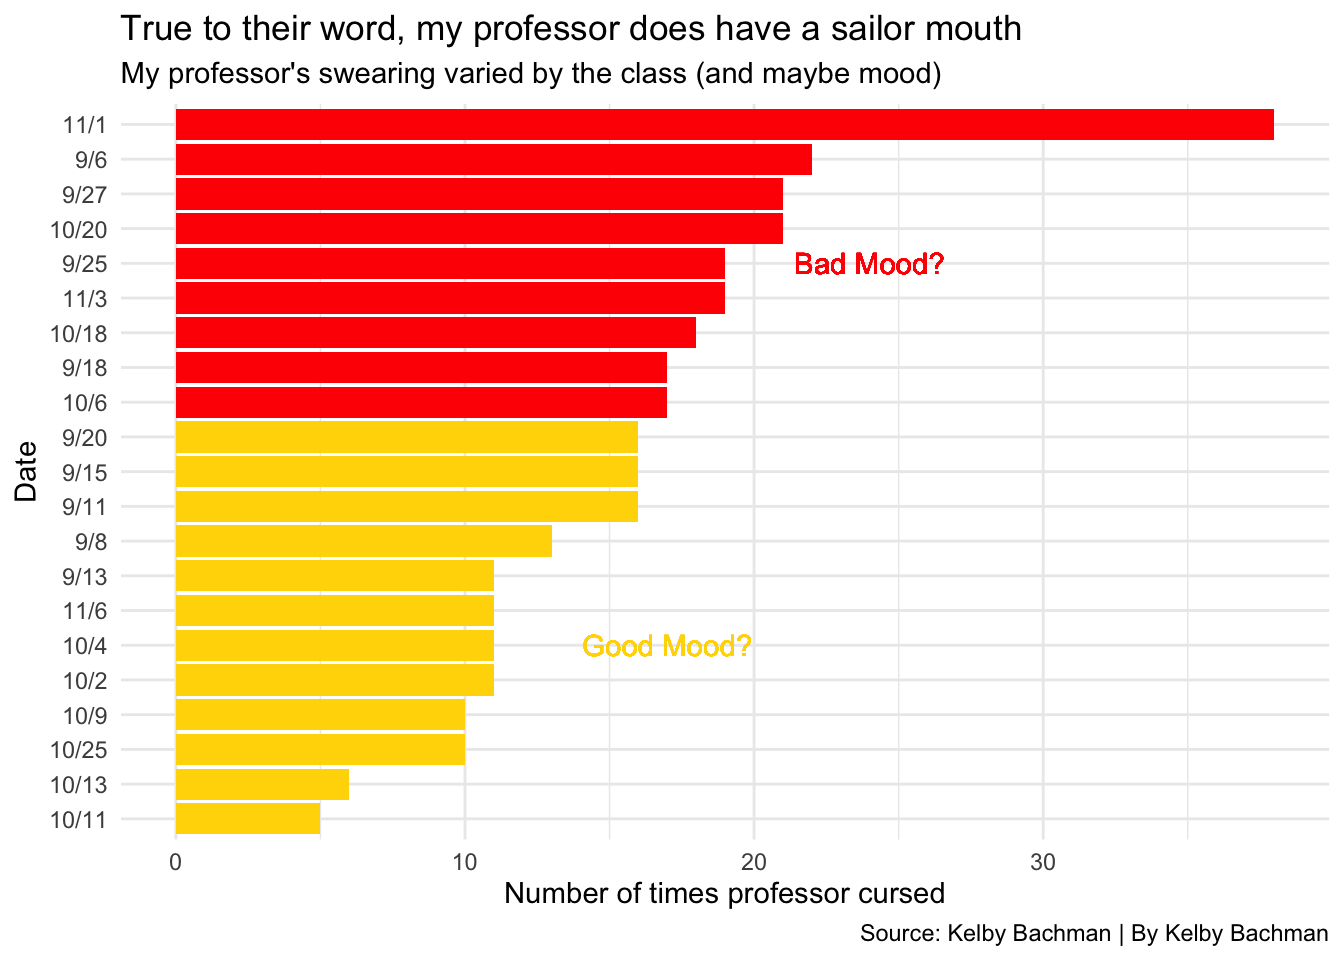
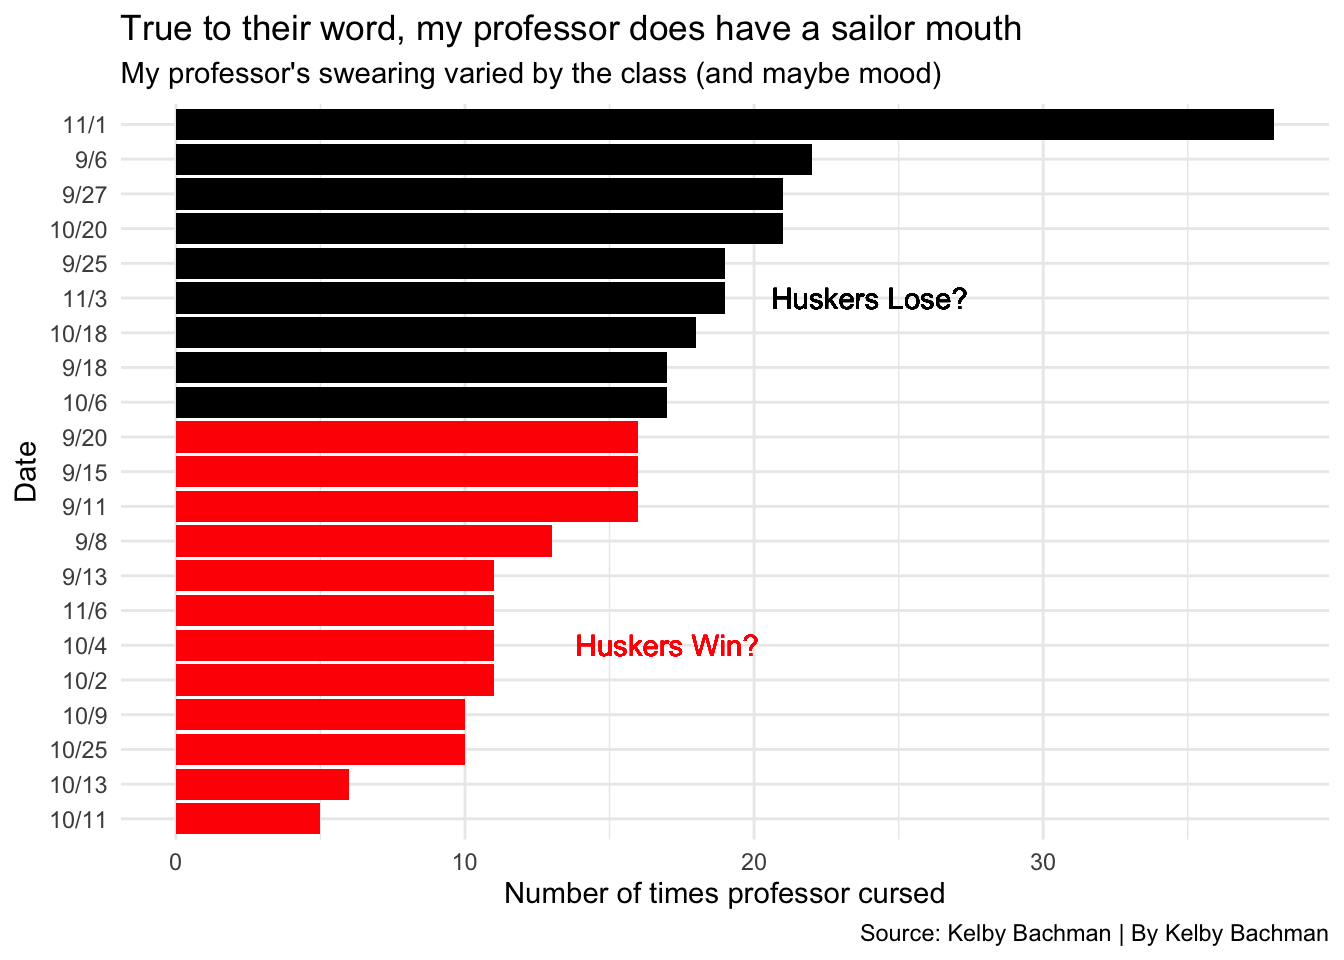
Finished

Changed region(s): [[0.125, 0.0938, 0.9688, 0.875], [0.4062, 0.6562, 0.5625, 0.6875]]

diff --git a/posts/cursewords/index.html b/posts/cursewords/index.html
@@ -195,8 +195,8 @@ pre > code.sourceCode > span > a:first-child::before { text-decoration: underlin
 <span id="cb1-9"><a href="#cb1-9" aria-hidden="true" tabindex="-1"></a></span>
 <span id="cb1-10"><a href="#cb1-10" aria-hidden="true" tabindex="-1"></a>cursewords <span class="sc">|&gt;</span></span>
 <span id="cb1-11"><a href="#cb1-11" aria-hidden="true" tabindex="-1"></a>  <span class="fu">ggplot</span>() <span class="sc">+</span> <span class="fu">geom_bar</span>(<span class="at">data=</span>cursewords, <span class="fu">aes</span>(<span class="at">x=</span><span class="fu">reorder</span>(Date, Total), <span class="at">weight=</span>Total)) <span class="sc">+</span></span>
-<span id="cb1-12"><a href="#cb1-12" aria-hidden="true" tabindex="-1"></a>  <span class="fu">geom_bar</span>(<span class="at">data=</span>goodmood, <span class="fu">aes</span>(<span class="at">x=</span><span class="fu">reorder</span>(Date, Total), <span class="at">weight=</span>Total), <span class="at">fill=</span><span class="st">"gold"</span>) <span class="sc">+</span></span>
-<span id="cb1-13"><a href="#cb1-13" aria-hidden="true" tabindex="-1"></a>  <span class="fu">geom_bar</span>(<span class="at">data=</span>badmood, <span class="fu">aes</span>(<span class="at">x=</span><span class="fu">reorder</span>(Date, Total), <span class="at">weight=</span>Total), <span class="at">fill=</span><span class="st">"red"</span>) <span class="sc">+</span></span>
+<span id="cb1-12"><a href="#cb1-12" aria-hidden="true" tabindex="-1"></a>  <span class="fu">geom_bar</span>(<span class="at">data=</span>goodmood, <span class="fu">aes</span>(<span class="at">x=</span><span class="fu">reorder</span>(Date, Total), <span class="at">weight=</span>Total), <span class="at">fill=</span><span class="st">"red"</span>) <span class="sc">+</span></span>
+<span id="cb1-13"><a href="#cb1-13" aria-hidden="true" tabindex="-1"></a>  <span class="fu">geom_bar</span>(<span class="at">data=</span>badmood, <span class="fu">aes</span>(<span class="at">x=</span><span class="fu">reorder</span>(Date, Total), <span class="at">weight=</span>Total), <span class="at">fill=</span><span class="st">"black"</span>) <span class="sc">+</span></span>
 <span id="cb1-14"><a href="#cb1-14" aria-hidden="true" tabindex="-1"></a>  <span class="fu">coord_flip</span>() <span class="sc">+</span></span>
 <span id="cb1-15"><a href="#cb1-15" aria-hidden="true" tabindex="-1"></a>  <span class="fu">theme_minimal</span>() <span class="sc">+</span></span>
 <span id="cb1-16"><a href="#cb1-16" aria-hidden="true" tabindex="-1"></a>  <span class="fu">labs</span>(</span>
@@ -206,13 +206,87 @@ pre > code.sourceCode > span > a:first-child::before { text-decoration: underlin
 <span id="cb1-20"><a href="#cb1-20" aria-hidden="true" tabindex="-1"></a>    <span class="at">subtitle=</span><span class="st">"My professor's swearing varied by the class (and maybe mood)"</span>,</span>
 <span id="cb1-21"><a href="#cb1-21" aria-hidden="true" tabindex="-1"></a>    <span class="at">caption=</span><span class="st">"Source: Kelby Bachman | By Kelby Bachman"</span></span>
 <span id="cb1-22"><a href="#cb1-22" aria-hidden="true" tabindex="-1"></a>  ) <span class="sc">+</span></span>
-<span id="cb1-23"><a href="#cb1-23" aria-hidden="true" tabindex="-1"></a>  <span class="fu">geom_text</span>(<span class="fu">aes</span>(<span class="at">x=</span><span class="dv">17</span>, <span class="at">y=</span><span class="dv">24</span>, <span class="at">label=</span><span class="st">"Bad Mood?"</span>), <span class="at">color=</span><span class="st">"red"</span>) <span class="sc">+</span></span>
-<span id="cb1-24"><a href="#cb1-24" aria-hidden="true" tabindex="-1"></a>  <span class="fu">geom_text</span>(<span class="fu">aes</span>(<span class="at">x=</span><span class="dv">6</span>, <span class="at">y=</span><span class="dv">17</span>, <span class="at">label=</span><span class="st">"Good Mood?"</span>), <span class="at">color=</span><span class="st">"gold"</span>)</span></code><button title="Copy to Clipboard" class="code-copy-button"><i class="bi"></i></button></pre></div>
+<span id="cb1-23"><a href="#cb1-23" aria-hidden="true" tabindex="-1"></a>  <span class="fu">geom_text</span>(<span class="fu">aes</span>(<span class="at">x=</span><span class="dv">16</span>, <span class="at">y=</span><span class="dv">24</span>, <span class="at">label=</span><span class="st">"Huskers Lose?"</span>), <span class="at">color=</span><span class="st">"black"</span>) <span class="sc">+</span></span>
+<span id="cb1-24"><a href="#cb1-24" aria-hidden="true" tabindex="-1"></a>  <span class="fu">geom_text</span>(<span class="fu">aes</span>(<span class="at">x=</span><span class="dv">6</span>, <span class="at">y=</span><span class="dv">17</span>, <span class="at">label=</span><span class="st">"Huskers Win?"</span>), <span class="at">color=</span><span class="st">"red"</span>)</span></code><button title="Copy to Clipboard" class="code-copy-button"><i class="bi"></i></button></pre></div>
 </details>
 <div class="cell-output-display">
 <p><img src="index_files/figure-html/unnamed-chunk-1-1.png" class="img-fluid" width="672"></p>
 </div>
 </div>
+<p>My professor wasn’t wrong. They, in fact, do swear quite a bit. I wasn’t sure if it because the Huskers won or lost. Either way, safe to say my professor has a sailor mouth. I took it a step further. Yeah, my professor swears a lot. But I wondered if he preferred one word over another. And, as a matter of fact, it seems like they do.</p>
+<div class="cell">
+<details>
+<summary>Code</summary>
+<div class="sourceCode cell-code" id="cb2"><pre class="sourceCode r code-with-copy"><code class="sourceCode r"><span id="cb2-1"><a href="#cb2-1" aria-hidden="true" tabindex="-1"></a>cursewords <span class="sc">|&gt;</span></span>
+<span id="cb2-2"><a href="#cb2-2" aria-hidden="true" tabindex="-1"></a>  <span class="fu">ggplot</span>() <span class="sc">+</span> </span>
+<span id="cb2-3"><a href="#cb2-3" aria-hidden="true" tabindex="-1"></a>  <span class="fu">geom_point</span>(<span class="at">data=</span>cursewords, <span class="fu">aes</span>(<span class="at">x=</span>Fuck, <span class="at">y=</span>Date, <span class="at">size=</span>Fuck, <span class="at">color=</span><span class="st">"Fuck"</span>)) <span class="sc">+</span></span>
+<span id="cb2-4"><a href="#cb2-4" aria-hidden="true" tabindex="-1"></a>  <span class="fu">geom_point</span>(<span class="at">data=</span>cursewords, <span class="fu">aes</span>(<span class="at">x=</span>Shit, <span class="at">y=</span>Date, <span class="at">size=</span>Shit, <span class="at">color=</span><span class="st">"Shit"</span>)) <span class="sc">+</span></span>
+<span id="cb2-5"><a href="#cb2-5" aria-hidden="true" tabindex="-1"></a>  <span class="fu">geom_point</span>(<span class="at">data=</span>cursewords, <span class="fu">aes</span>(<span class="at">x=</span>Bitch, <span class="at">y=</span>Date, <span class="at">size=</span>Bitch)) <span class="sc">+</span></span>
+<span id="cb2-6"><a href="#cb2-6" aria-hidden="true" tabindex="-1"></a>  <span class="fu">geom_point</span>(<span class="at">data=</span>cursewords, <span class="fu">aes</span>(<span class="at">x=</span>Ass, <span class="at">y=</span>Date, <span class="at">size=</span>Ass)) <span class="sc">+</span></span>
+<span id="cb2-7"><a href="#cb2-7" aria-hidden="true" tabindex="-1"></a>  <span class="fu">geom_point</span>(<span class="at">data=</span>cursewords, <span class="fu">aes</span>(<span class="at">x=</span>Hell, <span class="at">y=</span>Date, <span class="at">size=</span>Hell)) <span class="sc">+</span></span>
+<span id="cb2-8"><a href="#cb2-8" aria-hidden="true" tabindex="-1"></a>  <span class="fu">geom_point</span>(<span class="at">data=</span>cursewords, <span class="fu">aes</span>(<span class="at">x=</span>Damn, <span class="at">y=</span>Date, <span class="at">size=</span>Damn)) <span class="sc">+</span></span>
+<span id="cb2-9"><a href="#cb2-9" aria-hidden="true" tabindex="-1"></a>  <span class="fu">theme_minimal</span>() <span class="sc">+</span></span>
+<span id="cb2-10"><a href="#cb2-10" aria-hidden="true" tabindex="-1"></a>  <span class="fu">labs</span>(</span>
+<span id="cb2-11"><a href="#cb2-11" aria-hidden="true" tabindex="-1"></a>    <span class="at">x=</span><span class="st">"Swear Words"</span>,</span>
+<span id="cb2-12"><a href="#cb2-12" aria-hidden="true" tabindex="-1"></a>    <span class="at">y=</span><span class="st">"Date"</span>,</span>
+<span id="cb2-13"><a href="#cb2-13" aria-hidden="true" tabindex="-1"></a>    <span class="at">size=</span><span class="st">"Total"</span>,</span>
+<span id="cb2-14"><a href="#cb2-14" aria-hidden="true" tabindex="-1"></a>    <span class="at">title=</span><span class="st">"Swear words aren't as intimidating when they're in color"</span>,</span>
+<span id="cb2-15"><a href="#cb2-15" aria-hidden="true" tabindex="-1"></a>    <span class="at">subtitle=</span><span class="st">"One thing's for sure, Fuck &amp; Shit are my professor's swear words of choice"</span>,</span>
+<span id="cb2-16"><a href="#cb2-16" aria-hidden="true" tabindex="-1"></a>    <span class="at">caption=</span><span class="st">"Source: Kelby Bachman | By Kelby Bachman"</span></span>
+<span id="cb2-17"><a href="#cb2-17" aria-hidden="true" tabindex="-1"></a>  )</span></code><button title="Copy to Clipboard" class="code-copy-button"><i class="bi"></i></button></pre></div>
+</details>
+<div class="cell-output-display">
+<p><img src="index_files/figure-html/unnamed-chunk-2-1.png" class="img-fluid" width="672"></p>
+</div>
+</div>
+<p>It appears my professor’s preferred words are “Fuck” and “Shit”. That makes sense. I mean, those are pretty versatile curse words. I was a little surprise by the margin at which they were used over the others. So, I decided to find the percent to see what the likelihood he was going to drop an F-bomb compared to the other swear words.</p>
+<div class="cell">
+<details>
+<summary>Code</summary>
+<div class="sourceCode cell-code" id="cb3"><pre class="sourceCode r code-with-copy"><code class="sourceCode r"><span id="cb3-1"><a href="#cb3-1" aria-hidden="true" tabindex="-1"></a>cursewordspct <span class="ot">&lt;-</span> cursewords <span class="sc">|&gt;</span></span>
+<span id="cb3-2"><a href="#cb3-2" aria-hidden="true" tabindex="-1"></a>  <span class="fu">summarise</span>(</span>
+<span id="cb3-3"><a href="#cb3-3" aria-hidden="true" tabindex="-1"></a>    <span class="at">Fuck=</span><span class="fu">sum</span>(Fuck),</span>
+<span id="cb3-4"><a href="#cb3-4" aria-hidden="true" tabindex="-1"></a>    <span class="at">Shit=</span><span class="fu">sum</span>(Shit),</span>
+<span id="cb3-5"><a href="#cb3-5" aria-hidden="true" tabindex="-1"></a>    <span class="at">Hell=</span><span class="fu">sum</span>(Hell),</span>
+<span id="cb3-6"><a href="#cb3-6" aria-hidden="true" tabindex="-1"></a>    <span class="at">Damn=</span><span class="fu">sum</span>(Damn),</span>
+<span id="cb3-7"><a href="#cb3-7" aria-hidden="true" tabindex="-1"></a>    <span class="at">Bitch=</span><span class="fu">sum</span>(Bitch),</span>
+<span id="cb3-8"><a href="#cb3-8" aria-hidden="true" tabindex="-1"></a>    <span class="at">Ass=</span><span class="fu">sum</span>(Ass),</span>
+<span id="cb3-9"><a href="#cb3-9" aria-hidden="true" tabindex="-1"></a>    <span class="at">Total=</span><span class="fu">sum</span>(Total)</span>
+<span id="cb3-10"><a href="#cb3-10" aria-hidden="true" tabindex="-1"></a>  ) <span class="sc">|&gt;</span></span>
+<span id="cb3-11"><a href="#cb3-11" aria-hidden="true" tabindex="-1"></a>  <span class="fu">mutate</span>(</span>
+<span id="cb3-12"><a href="#cb3-12" aria-hidden="true" tabindex="-1"></a>    <span class="at">FuckPCT=</span><span class="fu">round</span>((Fuck<span class="sc">/</span>Total)<span class="sc">*</span><span class="dv">100</span>, <span class="at">digits=</span><span class="dv">2</span>),</span>
+<span id="cb3-13"><a href="#cb3-13" aria-hidden="true" tabindex="-1"></a>    <span class="at">ShitPCT=</span><span class="fu">round</span>((Shit<span class="sc">/</span>Total)<span class="sc">*</span><span class="dv">100</span>, <span class="at">digits=</span><span class="dv">2</span>),</span>
+<span id="cb3-14"><a href="#cb3-14" aria-hidden="true" tabindex="-1"></a>    <span class="at">HellPCT=</span><span class="fu">round</span>((Hell<span class="sc">/</span>Total)<span class="sc">*</span><span class="dv">100</span>, <span class="at">digits=</span><span class="dv">2</span>),</span>
+<span id="cb3-15"><a href="#cb3-15" aria-hidden="true" tabindex="-1"></a>    <span class="at">DamnPCT=</span><span class="fu">round</span>((Damn<span class="sc">/</span>Total)<span class="sc">*</span><span class="dv">100</span>, <span class="at">digits=</span><span class="dv">2</span>),</span>
+<span id="cb3-16"><a href="#cb3-16" aria-hidden="true" tabindex="-1"></a>    <span class="at">BitchPCT=</span><span class="fu">round</span>((Bitch<span class="sc">/</span>Total)<span class="sc">*</span><span class="dv">100</span>, <span class="at">digits=</span><span class="dv">2</span>),</span>
+<span id="cb3-17"><a href="#cb3-17" aria-hidden="true" tabindex="-1"></a>    <span class="at">AssPCT=</span><span class="fu">round</span>((Ass<span class="sc">/</span>Total)<span class="sc">*</span><span class="dv">100</span>, <span class="at">digits=</span><span class="dv">2</span>)</span>
+<span id="cb3-18"><a href="#cb3-18" aria-hidden="true" tabindex="-1"></a>  )</span>
+<span id="cb3-19"><a href="#cb3-19" aria-hidden="true" tabindex="-1"></a></span>
+<span id="cb3-20"><a href="#cb3-20" aria-hidden="true" tabindex="-1"></a>cursebar <span class="ot">&lt;-</span> cursewordspct <span class="sc">|&gt;</span></span>
+<span id="cb3-21"><a href="#cb3-21" aria-hidden="true" tabindex="-1"></a>  <span class="fu">select</span>(<span class="fu">ends_with</span>(<span class="st">"PCT"</span>)) <span class="sc">|&gt;</span> </span>
+<span id="cb3-22"><a href="#cb3-22" aria-hidden="true" tabindex="-1"></a>  <span class="fu">pivot_longer</span>(<span class="at">cols=</span><span class="fu">ends_with</span>(<span class="st">"PCT"</span>), <span class="at">names_to =</span> <span class="st">"Word"</span>, <span class="at">values_to=</span><span class="st">"Percent"</span>) <span class="sc">|&gt;</span> </span>
+<span id="cb3-23"><a href="#cb3-23" aria-hidden="true" tabindex="-1"></a>  <span class="fu">mutate</span>(<span class="at">Word =</span> <span class="fu">gsub</span>(<span class="st">"PCT"</span>, <span class="st">""</span>, Word))</span>
+<span id="cb3-24"><a href="#cb3-24" aria-hidden="true" tabindex="-1"></a></span>
+<span id="cb3-25"><a href="#cb3-25" aria-hidden="true" tabindex="-1"></a>fuckbar <span class="ot">&lt;-</span> cursebar <span class="sc">|&gt;</span></span>
+<span id="cb3-26"><a href="#cb3-26" aria-hidden="true" tabindex="-1"></a>  <span class="fu">filter</span>(Word <span class="sc">==</span> <span class="st">"Fuck"</span>)  </span>
+<span id="cb3-27"><a href="#cb3-27" aria-hidden="true" tabindex="-1"></a><span class="fu">ggplot</span>() <span class="sc">+</span> </span>
+<span id="cb3-28"><a href="#cb3-28" aria-hidden="true" tabindex="-1"></a>  <span class="fu">geom_bar</span>(<span class="at">data=</span>cursebar, <span class="fu">aes</span>(<span class="at">x=</span>Word, <span class="at">weight=</span>Percent), <span class="at">fill=</span><span class="st">"light grey"</span>) <span class="sc">+</span></span>
+<span id="cb3-29"><a href="#cb3-29" aria-hidden="true" tabindex="-1"></a>  <span class="fu">geom_bar</span>(<span class="at">data=</span>fuckbar, <span class="fu">aes</span>(<span class="at">x=</span>Word, <span class="at">weight=</span>Percent), <span class="at">fill=</span><span class="st">"red"</span>) <span class="sc">+</span></span>
+<span id="cb3-30"><a href="#cb3-30" aria-hidden="true" tabindex="-1"></a>  <span class="fu">theme_minimal</span>() <span class="sc">+</span></span>
+<span id="cb3-31"><a href="#cb3-31" aria-hidden="true" tabindex="-1"></a>  <span class="fu">labs</span>(</span>
+<span id="cb3-32"><a href="#cb3-32" aria-hidden="true" tabindex="-1"></a>    <span class="at">x=</span><span class="st">"Swear Words"</span>,</span>
+<span id="cb3-33"><a href="#cb3-33" aria-hidden="true" tabindex="-1"></a>    <span class="at">y=</span><span class="st">"Percent"</span>,</span>
+<span id="cb3-34"><a href="#cb3-34" aria-hidden="true" tabindex="-1"></a>    <span class="at">size=</span><span class="st">"Percent"</span>,</span>
+<span id="cb3-35"><a href="#cb3-35" aria-hidden="true" tabindex="-1"></a>    <span class="at">title=</span><span class="st">"My professor swear words based on percent"</span>,</span>
+<span id="cb3-36"><a href="#cb3-36" aria-hidden="true" tabindex="-1"></a>    <span class="at">subtitle=</span><span class="st">"When my professor does swear, they are going to say 'Fuck' almost half the time"</span>,</span>
+<span id="cb3-37"><a href="#cb3-37" aria-hidden="true" tabindex="-1"></a>    <span class="at">caption=</span><span class="st">"Source: Kelby Bachman | By Kelby Bachman"</span></span>
+<span id="cb3-38"><a href="#cb3-38" aria-hidden="true" tabindex="-1"></a>  )</span></code><button title="Copy to Clipboard" class="code-copy-button"><i class="bi"></i></button></pre></div>
+</details>
+<div class="cell-output-display">
+<p><img src="index_files/figure-html/unnamed-chunk-3-1.png" class="img-fluid" width="672"></p>
+</div>
+</div>
+<p>There you have it. If, I guess I should say when, my professor swears, they are going to drop an F-bomb almost half the time. Shit is a close second. The others…well, they might be best used as “sentence enhancers”. At least that’s what Patrick Star calls them. Now, go out and see how much your professor swears.</p>
 
 
 

diff --git a/index.html b/index.html
@@ -170,7 +170,7 @@ ul.task-list li input[type="checkbox"] {
 
 <div class="quarto-listing quarto-listing-container-default" id="listing-listing">
 <div class="list quarto-listing-default">
-<div class="quarto-post image-right" data-index="0" data-categories="" data-listing-date-sort="1699682400000" data-listing-file-modified-sort="1699819968214" data-listing-date-modified-sort="NaN" data-listing-reading-time-sort="2">
+<div class="quarto-post image-right" data-index="0" data-categories="" data-listing-date-sort="1699682400000" data-listing-file-modified-sort="1699829470141" data-listing-date-modified-sort="NaN" data-listing-reading-time-sort="4">
 <div class="thumbnail">
 <p><a href="./posts/cursewords/index.html"> <img src="./posts/cursewords/image.png" class="thumbnail-image"> </a></p>
 </div>
